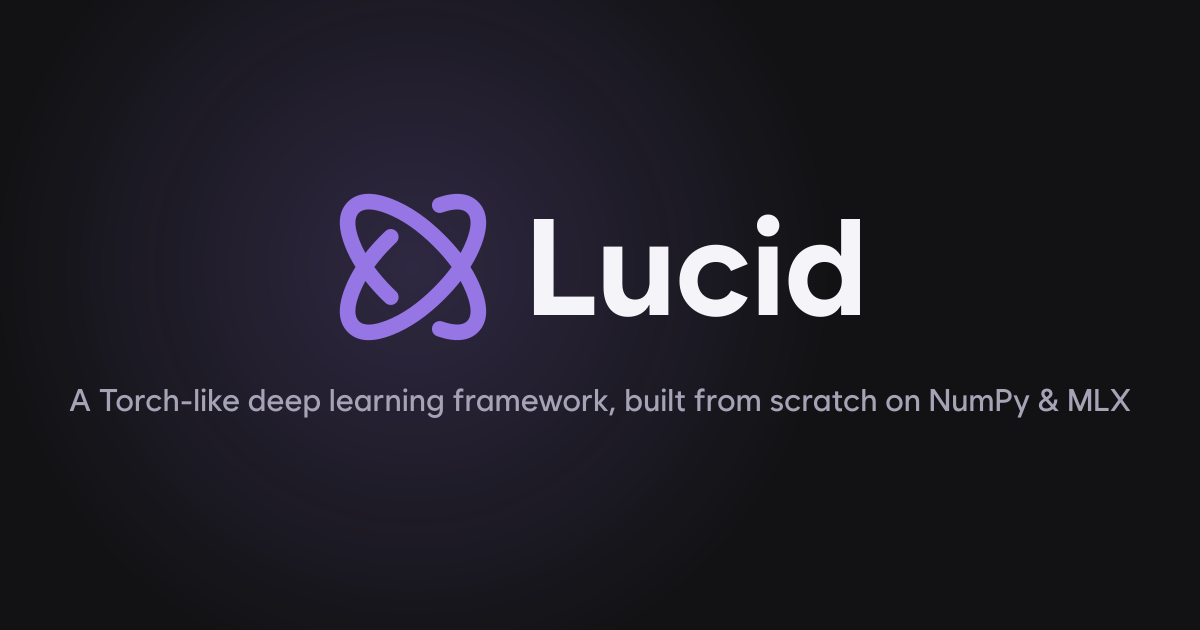
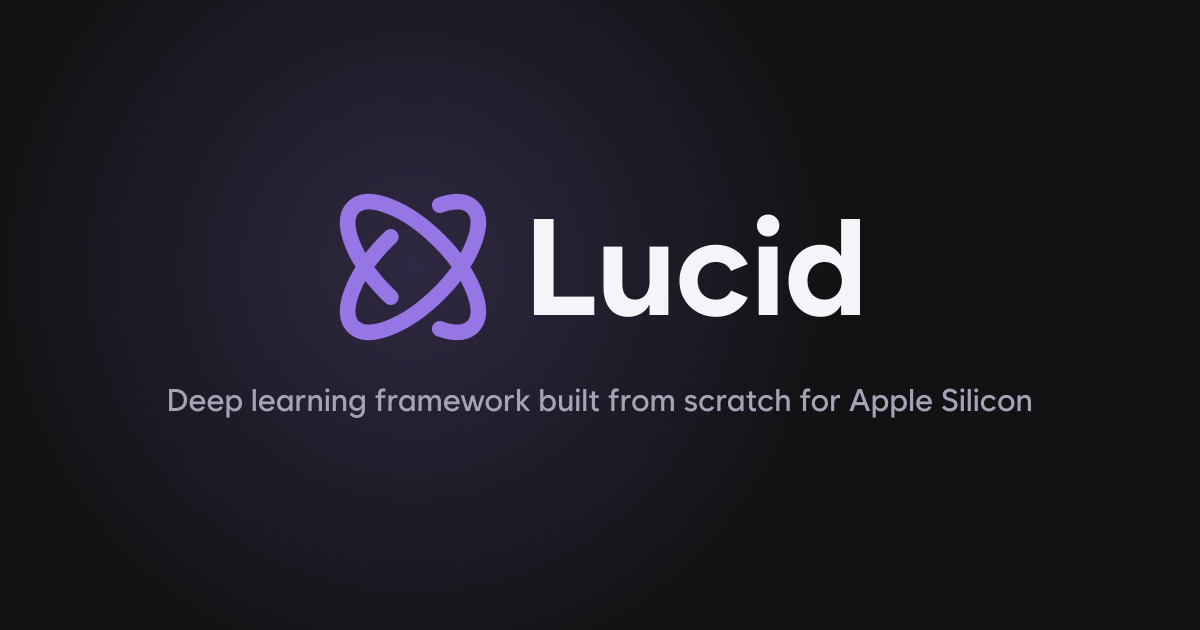
fix(assets): the OG tagline names Apple Silicon, not the old stack
The social card's tagline used the banned reference-framework word and
named a stack Lucid left behind. It now reads "Deep learning framework
built from scratch for Apple Silicon". lucid-og.svg and og-image.png are
regenerated with the kit's own generator; only the tagline path and
<desc> differ from the previous card.

Claude-Session: https://claude.ai/code/session_01EfMy7KVCwpwNsQB7SKLuCm

Changed region(s): [[0.0617, 0.6032, 0.9558, 0.6635]]

diff --git a/assets/source/lucid_logo.py b/assets/source/lucid_logo.py
@@ -310,7 +310,7 @@ def build():
     lx = (OW - lock_w) / 2; base = OH / 2 + capb / 2 - 48
     mb = mark_d((lx + mhb / 2, base - capb / 2), Ab)
     pwt, _ = WORD.path("Lucid", capb, lx + mhb + gapb - wx0, base)
-    tag = "A Torch-like deep learning framework, built from scratch on NumPy & MLX"
+    tag = "Deep learning framework built from scratch for Apple Silicon"
     capt = 22.0
     pt, _ = TAG.path(tag, capt)
     (tx0, _, tx1, _) = pt.bounds

diff --git a/CHANGELOG.md b/CHANGELOG.md
@@ -934,6 +934,8 @@ and this project adheres to [Semantic Versioning](https://semver.org/spec/v2.0.0
 
 - a 0-d slot loads a shape-(1,) checkpoint entry (LCD-504)
 
+- the OG tagline names Apple Silicon, not the old stack
+
 ### Changed
 
 - **Breaking (2026-10-11 wave).** Every change below makes Lucid match the reference; read this list before upgrading:
